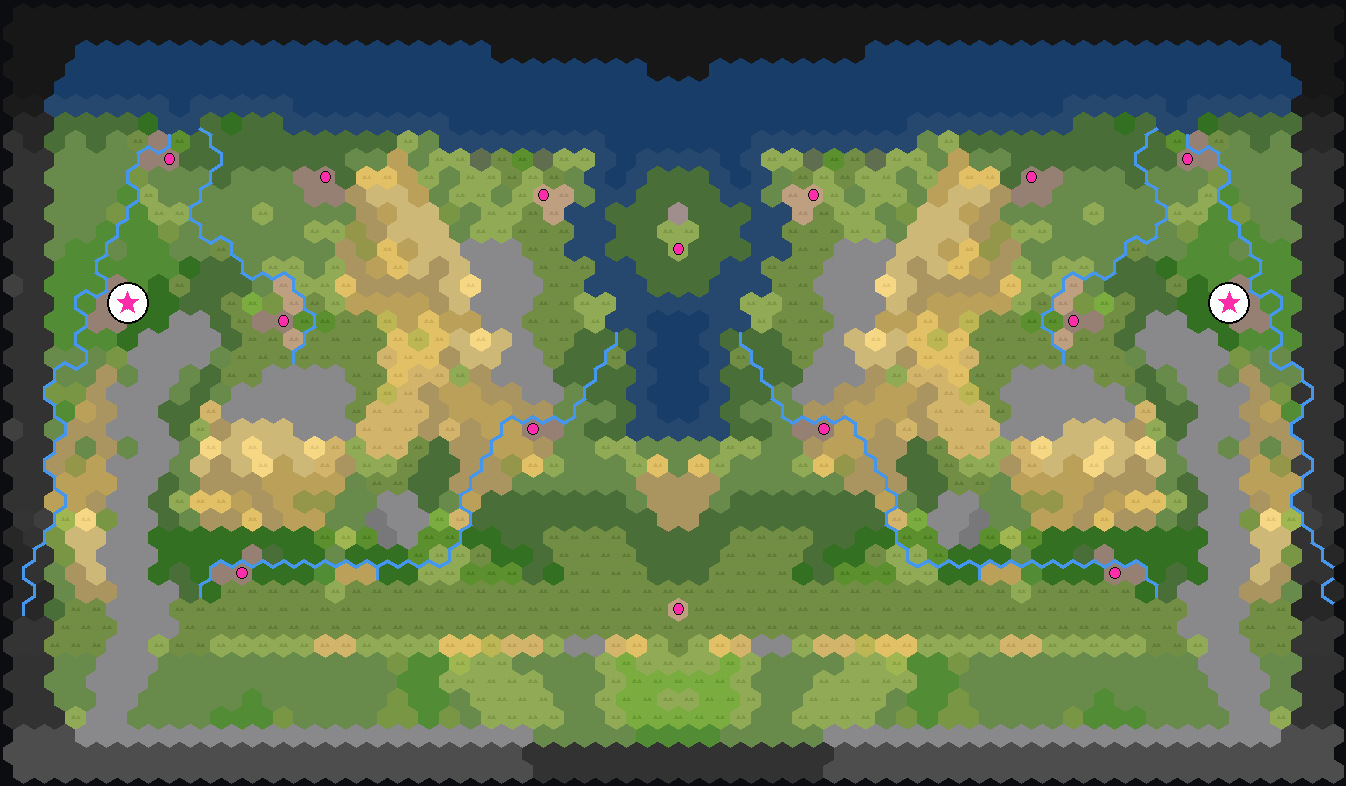
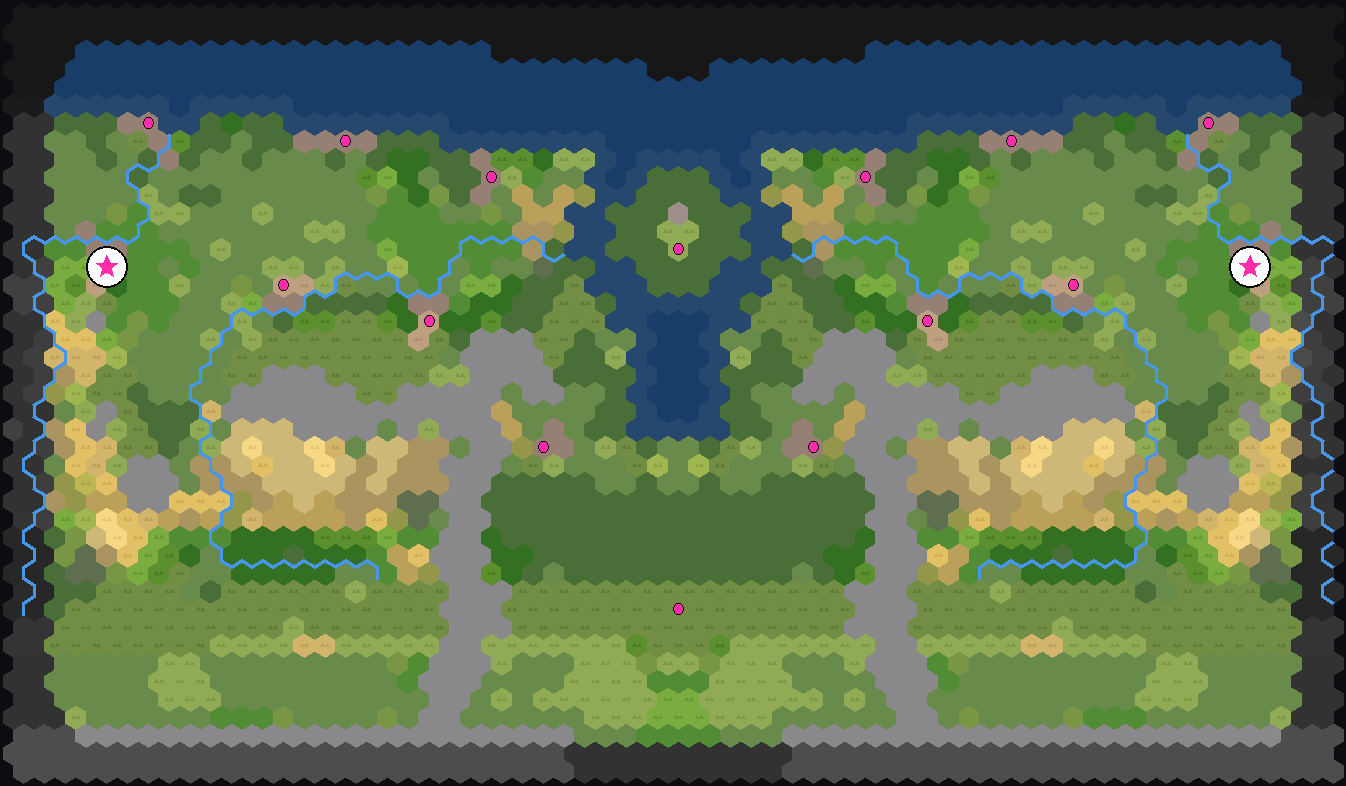
Spur anchored 0.35-0.40 of map width from the map EDGE
User clarification: the 0.35-0.40W spur offset is measured from the map
edge, not from centre. The mirrored spurs now hug the central corridor
(0.10-0.15W from centre), capitals sit in the wide outer plains, and the
4 central-tribe cities are framed between the pair. The gorge narrows to
0.08W and the spur wander is clamped outside the gorge mouth so the wall
always tops out against the range instead of opening a back door.

diff --git a/atlas/index.html b/atlas/index.html
@@ -34,7 +34,7 @@ h1 { margin: 0 0 4px; font: 600 18px/1.2 ui-monospace, Menlo, monospace;
 <header><h1>Caldera Bay — Climate Atlas</h1>
 <div class="sub">8 Mediterranean · 8 Temperate · 8 Northern (same seeds 1–8 per regime) ·
 <code>Climate (latitude)</code> map option</div></header>
-<h2 class="section">Mediterranean (warm) — 8 gens</h2><div class="grid"><div class="card"><img src="maps/Caldera_Bay_smallest_Mediterranean-1.png" loading="lazy"><div class="meta"><div class="seed">seed Mediterranean-1</div><div class="chips"><span class="chip">64×43</span><span class="chip">12% flat-lush</span><span class="chip">water 693</span><span class="chip">mtn 285</span><span class="chip bad">rivers 184</span><span class="chip bad">forest 448</span><span class="chip ok">2 starts</span><span class="chip ok">mirror-sym</span><span class="chip">sites 16</span><span class="chip">tribes 12</span><span class="chip">res 111</span></div></div></div><div class="card"><img src="maps/Caldera_Bay_smallest_Mediterranean-2.png" loading="lazy"><div class="meta"><div class="seed">seed Mediterranean-2</div><div class="chips"><span class="chip">64×43</span><span class="chip">11% flat-lush</span><span class="chip">water 550</span><span class="chip">mtn 276</span><span class="chip bad">rivers 235</span><span class="chip bad">forest 392</span><span class="chip ok">2 starts</span><span class="chip ok">mirror-sym</span><span class="chip">sites 16</span><span class="chip">tribes 12</span><span class="chip">res 106</span></div></div></div><div class="card"><img src="maps/Caldera_Bay_smallest_Mediterranean-3.png" loading="lazy"><div class="meta"><div class="seed">seed Mediterranean-3</div><div class="chips"><span class="chip">64×43</span><span class="chip">15% flat-lush</span><span class="chip">water 603</span><span class="chip">mtn 321</span><span class="chip bad">rivers 233</span><span class="chip bad">forest 340</span><span class="chip ok">2 starts</span><span class="chip ok">mirror-sym</span><span class="chip">sites 16</span><span class="chip">tribes 12</span><span class="chip">res 108</span></div></div></div><div class="card"><img src="maps/Caldera_Bay_smallest_Mediterranean-4.png" loading="lazy"><div class="meta"><div class="seed">seed Mediterranean-4</div><div class="chips"><span class="chip">64×43</span><span class="chip">14% flat-lush</span><span class="chip">water 562</span><span class="chip">mtn 322</span><span class="chip bad">rivers 253</span><span class="chip bad">forest 344</span><span class="chip ok">2 starts</span><span class="chip ok">mirror-sym</span><span class="chip">sites 16</span><span class="chip">tribes 12</span><span class="chip">res 113</span></div></div></div><div class="card"><img src="maps/Caldera_Bay_smallest_Mediterranean-5.png" loading="lazy"><div class="meta"><div class="seed">seed Mediterranean-5</div><div class="chips"><span class="chip">64×43</span><span class="chip">10% flat-lush</span><span class="chip">water 570</span><span class="chip">mtn 497</span><span class="chip bad">rivers 33</span><span class="chip bad">forest 371</span><span class="chip ok">2 starts</span><span class="chip ok">mirror-sym</span><span class="chip">sites 16</span><span class="chip">tribes 12</span><span class="chip">res 109</span></div></div></div><div class="card"><img src="maps/Caldera_Bay_smallest_Mediterranean-6.png" loading="lazy"><div class="meta"><div class="seed">seed Mediterranean-6</div><div class="chips"><span class="chip">64×43</span><span class="chip">10% flat-lush</span><span class="chip">water 529</span><span class="chip">mtn 367</span><span class="chip bad">rivers 204</span><span class="chip bad">forest 373</span><span class="chip ok">2 starts</span><span class="chip ok">mirror-sym</span><span class="chip">sites 16</span><span class="chip">tribes 12</span><span class="chip">res 106</span></div></div></div><div class="card"><img src="maps/Caldera_Bay_smallest_Mediterranean-7.png" loading="lazy"><div class="meta"><div class="seed">seed Mediterranean-7</div><div class="chips"><span class="chip">64×43</span><span class="chip">14% flat-lush</span><span class="chip">water 560</span><span class="chip">mtn 247</span><span class="chip bad">rivers 195</span><span class="chip bad">forest 313</span><span class="chip ok">2 starts</span><span class="chip ok">mirror-sym</span><span class="chip">sites 18</span><span class="chip">tribes 12</span><span class="chip">res 122</span></div></div></div><div class="card"><img src="maps/Caldera_Bay_smallest_Mediterranean-8.png" loading="lazy"><div class="meta"><div class="seed">seed Mediterranean-8</div><div class="chips"><span class="chip">64×43</span><span class="chip">10% flat-lush</span><span class="chip">water 639</span><span class="chip">mtn 379</span><span class="chip bad">rivers 177</span><span class="chip bad">forest 314</span><span class="chip ok">2 starts</span><span class="chip ok">mirror-sym</span><span class="chip">sites 16</span><span class="chip">tribes 12</span><span class="chip">res 131</span></div></div></div></div><h2 class="section">Temperate — 8 gens</h2><div class="grid"><div class="card"><img src="maps/Caldera_Bay_smallest_Temperate-1.png" loading="lazy"><div class="meta"><div class="seed">seed Temperate-1</div><div class="chips"><span class="chip">64×43</span><span class="chip">13% flat-lush</span><span class="chip">water 693</span><span class="chip">mtn 285</span><span class="chip bad">rivers 184</span><span class="chip bad">forest 451</span><span class="chip ok">2 starts</span><span class="chip ok">mirror-sym</span><span class="chip">sites 16</span><span class="chip">tribes 12</span><span class="chip">res 117</span></div></div></div><div class="card"><img src="maps/Caldera_Bay_smallest_Temperate-2.png" loading="lazy"><div class="meta"><div class="seed">seed Temperate-2</div><div class="chips"><span class="chip">64×43</span><span class="chip">12% flat-lush</span><span class="chip">water 550</span><span class="chip">mtn 276</span><span class="chip bad">rivers 235</span><span class="chip bad">forest 475</span><span class="chip ok">2 starts</span><span class="chip ok">mirror-sym</span><span class="chip">sites 16</span><span class="chip">tribes 12</span><span class="chip">res 124</span></div></div></div><div class="card"><img src="maps/Caldera_Bay_smallest_Temperate-3.png" loading="lazy"><div class="meta"><div class="seed">seed Temperate-3</div><div class="chips"><span class="chip">64×43</span><span class="chip">15% flat-lush</span><span class="chip">water 603</span><span class="chip">mtn 321</span><span class="chip bad">rivers 233</span><span class="chip bad">forest 366</span><span class="chip ok">2 starts</span><span class="chip ok">mirror-sym</span><span class="chip">sites 16</span><span class="chip">tribes 12</span><span class="chip">res 109</span></div></div></div><div class="card"><img src="maps/Caldera_Bay_smallest_Temperate-4.png" loading="lazy"><div class="meta"><div class="seed">seed Temperate-4</div><div class="chips"><span class="chip">64×43</span><span class="chip">15% flat-lush</span><span class="chip">water 562</span><span class="chip">mtn 322</span><span class="chip bad">rivers 253</span><span class="chip bad">forest 365</span><span class="chip ok">2 starts</span><span class="chip ok">mirror-sym</span><span class="chip">sites 18</span><span class="chip">tribes 12</span><span class="chip">res 127</span></div></div></div><div class="card"><img src="maps/Caldera_Bay_smallest_Temperate-5.png" loading="lazy"><div class="meta"><div class="seed">seed Temperate-5</div><div class="chips"><span class="chip">64×43</span><span class="chip">10% flat-lush</span><span class="chip">water 570</span><span class="chip">mtn 493</span><span class="chip bad">rivers 33</span><span class="chip bad">forest 401</span><span class="chip ok">2 starts</span><span class="chip ok">mirror-sym</span><span class="chip">sites 18</span><span class="chip">tribes 12</span><span class="chip">res 96</span></div></div></div><div class="card"><img src="maps/Caldera_Bay_smallest_Temperate-6.png" loading="lazy"><div class="meta"><div class="seed">seed Temperate-6</div><div class="chips"><span class="chip">64×43</span><span class="chip">12% flat-lush</span><span class="chip">water 529</span><span class="chip">mtn 367</span><span class="chip bad">rivers 204</span><span class="chip bad">forest 414</span><span class="chip ok">2 starts</span><span class="chip ok">mirror-sym</span><span class="chip">sites 16</span><span class="chip">tribes 12</span><span class="chip">res 117</span></div></div></div><div class="card"><img src="maps/Caldera_Bay_smallest_Temperate-7.png" loading="lazy"><div class="meta"><div class="seed">seed Temperate-7</div><div class="chips"><span class="chip">64×43</span><span class="chip">14% flat-lush</span><span class="chip">water 560</span><span class="chip">mtn 247</span><span class="chip bad">rivers 195</span><span class="chip bad">forest 328</span><span class="chip ok">2 starts</span><span class="chip ok">mirror-sym</span><span class="chip">sites 18</span><span class="chip">tribes 12</span><span class="chip">res 136</span></div></div></div><div class="card"><img src="maps/Caldera_Bay_smallest_Temperate-8.png" loading="lazy"><div class="meta"><div class="seed">seed Temperate-8</div><div class="chips"><span class="chip">64×43</span><span class="chip">11% flat-lush</span><span class="chip">water 639</span><span class="chip">mtn 379</span><span class="chip bad">rivers 177</span><span class="chip bad">forest 369</span><span class="chip ok">2 starts</span><span class="chip ok">mirror-sym</span><span class="chip">sites 16</span><span class="chip">tribes 12</span><span class="chip">res 113</span></div></div></div></div><h2 class="section">Northern (cold) — 8 gens</h2><div class="grid"><div class="card"><img src="maps/Caldera_Bay_smallest_Northern-1.png" loading="lazy"><div class="meta"><div class="seed">seed Northern-1</div><div class="chips"><span class="chip">64×43</span><span class="chip">11% flat-lush</span><span class="chip">water 693</span><span class="chip">mtn 285</span><span class="chip bad">rivers 184</span><span class="chip bad">forest 438</span><span class="chip ok">2 starts</span><span class="chip ok">mirror-sym</span><span class="chip">sites 16</span><span class="chip">tribes 12</span><span class="chip">res 106</span></div></div></div><div class="card"><img src="maps/Caldera_Bay_smallest_Northern-2.png" loading="lazy"><div class="meta"><div class="seed">seed Northern-2</div><div class="chips"><span class="chip">64×43</span><span class="chip">10% flat-lush</span><span class="chip">water 550</span><span class="chip">mtn 276</span><span class="chip bad">rivers 235</span><span class="chip bad">forest 468</span><span class="chip ok">2 starts</span><span class="chip ok">mirror-sym</span><span class="chip">sites 16</span><span class="chip">tribes 12</span><span class="chip">res 124</span></div></div></div><div class="card"><img src="maps/Caldera_Bay_smallest_Northern-3.png" loading="lazy"><div class="meta"><div class="seed">seed Northern-3</div><div class="chips"><span class="chip">64×43</span><span class="chip">14% flat-lush</span><span class="chip">water 603</span><span class="chip">mtn 317</span><span class="chip bad">rivers 233</span><span class="chip bad">forest 378</span><span class="chip ok">2 starts</span><span class="chip ok">mirror-sym</span><span class="chip">sites 16</span><span class="chip">tribes 12</span><span class="chip">res 101</span></div></div></div><div class="card"><img src="maps/Caldera_Bay_smallest_Northern-4.png" loading="lazy"><div class="meta"><div class="seed">seed Northern-4</div><div class="chips"><span class="chip">64×43</span><span class="chip">14% flat-lush</span><span class="chip">water 562</span><span class="chip">mtn 322</span><span class="chip bad">rivers 253</span><span class="chip bad">forest 356</span><span class="chip ok">2 starts</span><span class="chip ok">mirror-sym</span><span class="chip">sites 16</span><span class="chip">tribes 12</span><span class="chip">res 119</span></div></div></div><div class="card"><img src="maps/Caldera_Bay_smallest_Northern-5.png" loading="lazy"><div class="meta"><div class="seed">seed Northern-5</div><div class="chips"><span class="chip">64×43</span><span class="chip">9% flat-lush</span><span class="chip">water 570</span><span class="chip">mtn 497</span><span class="chip bad">rivers 33</span><span class="chip bad">forest 394</span><span class="chip ok">2 starts</span><span class="chip ok">mirror-sym</span><span class="chip">sites 16</span><span class="chip">tribes 12</span><span class="chip">res 97</span></div></div></div><div class="card"><img src="maps/Caldera_Bay_smallest_Northern-6.png" loading="lazy"><div class="meta"><div class="seed">seed Northern-6</div><div class="chips"><span class="chip">64×43</span><span class="chip">9% flat-lush</span><span class="chip">water 529</span><span class="chip">mtn 367</span><span class="chip bad">rivers 204</span><span class="chip bad">forest 424</span><span class="chip ok">2 starts</span><span class="chip ok">mirror-sym</span><span class="chip">sites 16</span><span class="chip">tribes 12</span><span class="chip">res 110</span></div></div></div><div class="card"><img src="maps/Caldera_Bay_smallest_Northern-7.png" loading="lazy"><div class="meta"><div class="seed">seed Northern-7</div><div class="chips"><span class="chip">64×43</span><span class="chip">14% flat-lush</span><span class="chip">water 560</span><span class="chip">mtn 247</span><span class="chip bad">rivers 195</span><span class="chip bad">forest 343</span><span class="chip ok">2 starts</span><span class="chip ok">mirror-sym</span><span class="chip">sites 18</span><span class="chip">tribes 12</span><span class="chip">res 108</span></div></div></div><div class="card"><img src="maps/Caldera_Bay_smallest_Northern-8.png" loading="lazy"><div class="meta"><div class="seed">seed Northern-8</div><div class="chips"><span class="chip">64×43</span><span class="chip">10% flat-lush</span><span class="chip">water 639</span><span class="chip">mtn 381</span><span class="chip bad">rivers 177</span><span class="chip bad">forest 377</span><span class="chip ok">2 starts</span><span class="chip ok">mirror-sym</span><span class="chip">sites 14</span><span class="chip">tribes 10</span><span class="chip">res 94</span></div></div></div></div>
+<h2 class="section">Mediterranean (warm) — 8 gens</h2><div class="grid"><div class="card"><img src="maps/Caldera_Bay_smallest_Mediterranean-1.png" loading="lazy"><div class="meta"><div class="seed">seed Mediterranean-1</div><div class="chips"><span class="chip">64×43</span><span class="chip">14% flat-lush</span><span class="chip">water 673</span><span class="chip">mtn 399</span><span class="chip bad">rivers 193</span><span class="chip bad">forest 400</span><span class="chip ok">2 starts</span><span class="chip ok">mirror-sym</span><span class="chip">sites 14</span><span class="chip">tribes 10</span><span class="chip">res 58</span></div></div></div><div class="card"><img src="maps/Caldera_Bay_smallest_Mediterranean-2.png" loading="lazy"><div class="meta"><div class="seed">seed Mediterranean-2</div><div class="chips"><span class="chip">64×43</span><span class="chip">11% flat-lush</span><span class="chip">water 565</span><span class="chip">mtn 363</span><span class="chip bad">rivers 183</span><span class="chip bad">forest 393</span><span class="chip ok">2 starts</span><span class="chip ok">mirror-sym</span><span class="chip">sites 18</span><span class="chip">tribes 12</span><span class="chip">res 94</span></div></div></div><div class="card"><img src="maps/Caldera_Bay_smallest_Mediterranean-3.png" loading="lazy"><div class="meta"><div class="seed">seed Mediterranean-3</div><div class="chips"><span class="chip">64×43</span><span class="chip">12% flat-lush</span><span class="chip">water 621</span><span class="chip">mtn 366</span><span class="chip bad">rivers 166</span><span class="chip bad">forest 337</span><span class="chip ok">2 starts</span><span class="chip ok">mirror-sym</span><span class="chip">sites 18</span><span class="chip">tribes 12</span><span class="chip">res 103</span></div></div></div><div class="card"><img src="maps/Caldera_Bay_smallest_Mediterranean-4.png" loading="lazy"><div class="meta"><div class="seed">seed Mediterranean-4</div><div class="chips"><span class="chip">64×43</span><span class="chip">11% flat-lush</span><span class="chip">water 562</span><span class="chip">mtn 342</span><span class="chip bad">rivers 211</span><span class="chip bad">forest 372</span><span class="chip ok">2 starts</span><span class="chip ok">mirror-sym</span><span class="chip">sites 16</span><span class="chip">tribes 12</span><span class="chip">res 131</span></div></div></div><div class="card"><img src="maps/Caldera_Bay_smallest_Mediterranean-5.png" loading="lazy"><div class="meta"><div class="seed">seed Mediterranean-5</div><div class="chips"><span class="chip">64×43</span><span class="chip">8% flat-lush</span><span class="chip">water 562</span><span class="chip">mtn 421</span><span class="chip bad">rivers 32</span><span class="chip bad">forest 372</span><span class="chip ok">2 starts</span><span class="chip ok">mirror-sym</span><span class="chip">sites 16</span><span class="chip">tribes 10</span><span class="chip">res 116</span></div></div></div><div class="card"><img src="maps/Caldera_Bay_smallest_Mediterranean-6.png" loading="lazy"><div class="meta"><div class="seed">seed Mediterranean-6</div><div class="chips"><span class="chip">64×43</span><span class="chip">12% flat-lush</span><span class="chip">water 529</span><span class="chip">mtn 355</span><span class="chip bad">rivers 192</span><span class="chip bad">forest 388</span><span class="chip ok">2 starts</span><span class="chip ok">mirror-sym</span><span class="chip">sites 16</span><span class="chip">tribes 12</span><span class="chip">res 112</span></div></div></div><div class="card"><img src="maps/Caldera_Bay_smallest_Mediterranean-7.png" loading="lazy"><div class="meta"><div class="seed">seed Mediterranean-7</div><div class="chips"><span class="chip">64×43</span><span class="chip">15% flat-lush</span><span class="chip">water 568</span><span class="chip">mtn 342</span><span class="chip bad">rivers 211</span><span class="chip bad">forest 263</span><span class="chip ok">2 starts</span><span class="chip ok">mirror-sym</span><span class="chip">sites 16</span><span class="chip">tribes 12</span><span class="chip">res 110</span></div></div></div><div class="card"><img src="maps/Caldera_Bay_smallest_Mediterranean-8.png" loading="lazy"><div class="meta"><div class="seed">seed Mediterranean-8</div><div class="chips"><span class="chip">64×43</span><span class="chip">9% flat-lush</span><span class="chip">water 629</span><span class="chip">mtn 385</span><span class="chip bad">rivers 213</span><span class="chip bad">forest 348</span><span class="chip ok">2 starts</span><span class="chip ok">mirror-sym</span><span class="chip">sites 14</span><span class="chip">tribes 10</span><span class="chip">res 97</span></div></div></div></div><h2 class="section">Temperate — 8 gens</h2><div class="grid"><div class="card"><img src="maps/Caldera_Bay_smallest_Temperate-1.png" loading="lazy"><div class="meta"><div class="seed">seed Temperate-1</div><div class="chips"><span class="chip">64×43</span><span class="chip">15% flat-lush</span><span class="chip">water 673</span><span class="chip">mtn 399</span><span class="chip bad">rivers 193</span><span class="chip bad">forest 447</span><span class="chip ok">2 starts</span><span class="chip ok">mirror-sym</span><span class="chip">sites 14</span><span class="chip">tribes 10</span><span class="chip">res 70</span></div></div></div><div class="card"><img src="maps/Caldera_Bay_smallest_Temperate-2.png" loading="lazy"><div class="meta"><div class="seed">seed Temperate-2</div><div class="chips"><span class="chip">64×43</span><span class="chip">12% flat-lush</span><span class="chip">water 565</span><span class="chip">mtn 363</span><span class="chip bad">rivers 183</span><span class="chip bad">forest 440</span><span class="chip ok">2 starts</span><span class="chip ok">mirror-sym</span><span class="chip">sites 16</span><span class="chip">tribes 12</span><span class="chip">res 102</span></div></div></div><div class="card"><img src="maps/Caldera_Bay_smallest_Temperate-3.png" loading="lazy"><div class="meta"><div class="seed">seed Temperate-3</div><div class="chips"><span class="chip">64×43</span><span class="chip">13% flat-lush</span><span class="chip">water 621</span><span class="chip">mtn 370</span><span class="chip bad">rivers 166</span><span class="chip bad">forest 371</span><span class="chip ok">2 starts</span><span class="chip ok">mirror-sym</span><span class="chip">sites 18</span><span class="chip">tribes 12</span><span class="chip">res 108</span></div></div></div><div class="card"><img src="maps/Caldera_Bay_smallest_Temperate-4.png" loading="lazy"><div class="meta"><div class="seed">seed Temperate-4</div><div class="chips"><span class="chip">64×43</span><span class="chip">12% flat-lush</span><span class="chip">water 562</span><span class="chip">mtn 342</span><span class="chip bad">rivers 211</span><span class="chip bad">forest 372</span><span class="chip ok">2 starts</span><span class="chip ok">mirror-sym</span><span class="chip">sites 16</span><span class="chip">tribes 12</span><span class="chip">res 112</span></div></div></div><div class="card"><img src="maps/Caldera_Bay_smallest_Temperate-5.png" loading="lazy"><div class="meta"><div class="seed">seed Temperate-5</div><div class="chips"><span class="chip">64×43</span><span class="chip">8% flat-lush</span><span class="chip">water 562</span><span class="chip">mtn 417</span><span class="chip bad">rivers 32</span><span class="chip bad">forest 431</span><span class="chip ok">2 starts</span><span class="chip ok">mirror-sym</span><span class="chip">sites 18</span><span class="chip">tribes 12</span><span class="chip">res 106</span></div></div></div><div class="card"><img src="maps/Caldera_Bay_smallest_Temperate-6.png" loading="lazy"><div class="meta"><div class="seed">seed Temperate-6</div><div class="chips"><span class="chip">64×43</span><span class="chip">13% flat-lush</span><span class="chip">water 529</span><span class="chip">mtn 355</span><span class="chip bad">rivers 192</span><span class="chip bad">forest 404</span><span class="chip ok">2 starts</span><span class="chip ok">mirror-sym</span><span class="chip">sites 16</span><span class="chip">tribes 12</span><span class="chip">res 104</span></div></div></div><div class="card"><img src="maps/Caldera_Bay_smallest_Temperate-7.png" loading="lazy"><div class="meta"><div class="seed">seed Temperate-7</div><div class="chips"><span class="chip">64×43</span><span class="chip">16% flat-lush</span><span class="chip">water 568</span><span class="chip">mtn 342</span><span class="chip bad">rivers 211</span><span class="chip bad">forest 272</span><span class="chip ok">2 starts</span><span class="chip ok">mirror-sym</span><span class="chip">sites 16</span><span class="chip">tribes 12</span><span class="chip">res 124</span></div></div></div><div class="card"><img src="maps/Caldera_Bay_smallest_Temperate-8.png" loading="lazy"><div class="meta"><div class="seed">seed Temperate-8</div><div class="chips"><span class="chip">64×43</span><span class="chip">9% flat-lush</span><span class="chip">water 629</span><span class="chip">mtn 387</span><span class="chip bad">rivers 213</span><span class="chip bad">forest 365</span><span class="chip ok">2 starts</span><span class="chip ok">mirror-sym</span><span class="chip">sites 16</span><span class="chip">tribes 12</span><span class="chip">res 100</span></div></div></div></div><h2 class="section">Northern (cold) — 8 gens</h2><div class="grid"><div class="card"><img src="maps/Caldera_Bay_smallest_Northern-1.png" loading="lazy"><div class="meta"><div class="seed">seed Northern-1</div><div class="chips"><span class="chip">64×43</span><span class="chip">14% flat-lush</span><span class="chip">water 673</span><span class="chip">mtn 399</span><span class="chip bad">rivers 193</span><span class="chip bad">forest 438</span><span class="chip ok">2 starts</span><span class="chip ok">mirror-sym</span><span class="chip">sites 14</span><span class="chip">tribes 10</span><span class="chip">res 54</span></div></div></div><div class="card"><img src="maps/Caldera_Bay_smallest_Northern-2.png" loading="lazy"><div class="meta"><div class="seed">seed Northern-2</div><div class="chips"><span class="chip">64×43</span><span class="chip">9% flat-lush</span><span class="chip">water 565</span><span class="chip">mtn 363</span><span class="chip bad">rivers 183</span><span class="chip bad">forest 439</span><span class="chip ok">2 starts</span><span class="chip ok">mirror-sym</span><span class="chip">sites 16</span><span class="chip">tribes 12</span><span class="chip">res 119</span></div></div></div><div class="card"><img src="maps/Caldera_Bay_smallest_Northern-3.png" loading="lazy"><div class="meta"><div class="seed">seed Northern-3</div><div class="chips"><span class="chip">64×43</span><span class="chip">12% flat-lush</span><span class="chip">water 621</span><span class="chip">mtn 370</span><span class="chip bad">rivers 166</span><span class="chip bad">forest 384</span><span class="chip ok">2 starts</span><span class="chip ok">mirror-sym</span><span class="chip">sites 18</span><span class="chip">tribes 12</span><span class="chip">res 115</span></div></div></div><div class="card"><img src="maps/Caldera_Bay_smallest_Northern-4.png" loading="lazy"><div class="meta"><div class="seed">seed Northern-4</div><div class="chips"><span class="chip">64×43</span><span class="chip">11% flat-lush</span><span class="chip">water 562</span><span class="chip">mtn 342</span><span class="chip bad">rivers 211</span><span class="chip bad">forest 376</span><span class="chip ok">2 starts</span><span class="chip ok">mirror-sym</span><span class="chip">sites 16</span><span class="chip">tribes 12</span><span class="chip">res 116</span></div></div></div><div class="card"><img src="maps/Caldera_Bay_smallest_Northern-5.png" loading="lazy"><div class="meta"><div class="seed">seed Northern-5</div><div class="chips"><span class="chip">64×43</span><span class="chip">8% flat-lush</span><span class="chip">water 562</span><span class="chip">mtn 421</span><span class="chip bad">rivers 32</span><span class="chip bad">forest 427</span><span class="chip ok">2 starts</span><span class="chip ok">mirror-sym</span><span class="chip">sites 18</span><span class="chip">tribes 12</span><span class="chip">res 125</span></div></div></div><div class="card"><img src="maps/Caldera_Bay_smallest_Northern-6.png" loading="lazy"><div class="meta"><div class="seed">seed Northern-6</div><div class="chips"><span class="chip">64×43</span><span class="chip">12% flat-lush</span><span class="chip">water 529</span><span class="chip">mtn 355</span><span class="chip bad">rivers 192</span><span class="chip bad">forest 396</span><span class="chip ok">2 starts</span><span class="chip ok">mirror-sym</span><span class="chip">sites 16</span><span class="chip">tribes 12</span><span class="chip">res 116</span></div></div></div><div class="card"><img src="maps/Caldera_Bay_smallest_Northern-7.png" loading="lazy"><div class="meta"><div class="seed">seed Northern-7</div><div class="chips"><span class="chip">64×43</span><span class="chip">14% flat-lush</span><span class="chip">water 568</span><span class="chip">mtn 342</span><span class="chip bad">rivers 211</span><span class="chip bad">forest 286</span><span class="chip ok">2 starts</span><span class="chip ok">mirror-sym</span><span class="chip">sites 16</span><span class="chip">tribes 12</span><span class="chip">res 102</span></div></div></div><div class="card"><img src="maps/Caldera_Bay_smallest_Northern-8.png" loading="lazy"><div class="meta"><div class="seed">seed Northern-8</div><div class="chips"><span class="chip">64×43</span><span class="chip">9% flat-lush</span><span class="chip">water 629</span><span class="chip">mtn 385</span><span class="chip bad">rivers 213</span><span class="chip bad">forest 363</span><span class="chip ok">2 starts</span><span class="chip ok">mirror-sym</span><span class="chip">sites 16</span><span class="chip">tribes 12</span><span class="chip">res 126</span></div></div></div></div>
 <div id="lb"><img alt=""></div>
 <script>
 const lb = document.getElementById('lb'), lbimg = lb.querySelector('img');

diff --git a/src/CalderaBay.cs b/src/CalderaBay.cs
@@ -211,7 +211,11 @@ namespace OwMapCreation
             // BETWEEN the mirrored spurs.
             int nSpurs = 1;
             double[] spurOff = new double[nSpurs];
-            spurOff[0] = 0.35 + 0.05 * (random.Next(100) / 100.0);   // 0.35–0.40 of W from centre
+            // 0.35–0.40 of W from the map EDGE (= 0.10–0.15 from centre): the
+            // spurs hug the central corridor, the capitals sit in the wide
+            // outer plains, and the 4 central-tribe cities are framed between
+            // the mirrored pair.
+            spurOff[0] = 0.10 + 0.05 * (random.Next(100) / 100.0);
             mSpurOffFrac = spurOff[0];
 
             // WOBBLED COASTLINE: the locked sea band's depth varies per column (a
@@ -245,7 +249,10 @@ namespace OwMapCreation
                 {
                     drift += (random.Next(3) - 1) * 0.5;             // wander ±½ tile per row
                     drift = Math.Max(-2.5, Math.Min(2.5, drift));    // stay near the axis
-                    spurAt[i][y] = W * spurOff[i] + drift;
+                    // never dip inside the gorge mouth (xs<0.08W is the locked
+                    // pass through the range) — the wall must top out against
+                    // the range wall, not open a back door around the gorge
+                    spurAt[i][y] = Math.Max(W * 0.08 + 1.8, W * spurOff[i] + drift);
                 }
             }
 
@@ -277,7 +284,7 @@ namespace OwMapCreation
                     // boundary, which FillLakes then lined with a lake chain.
                     if (d >= H - 3)
                     {
-                        if (xs > W * 0.11) LockLand(t, MOUNTAIN_HEIGHT, TEMPERATE_TERRAIN);
+                        if (xs > W * 0.08) LockLand(t, MOUNTAIN_HEIGHT, TEMPERATE_TERRAIN);
                         else
                         {
                             LockLand(t, FLAT_HEIGHT, TEMPERATE_TERRAIN);    // the gorge pass
